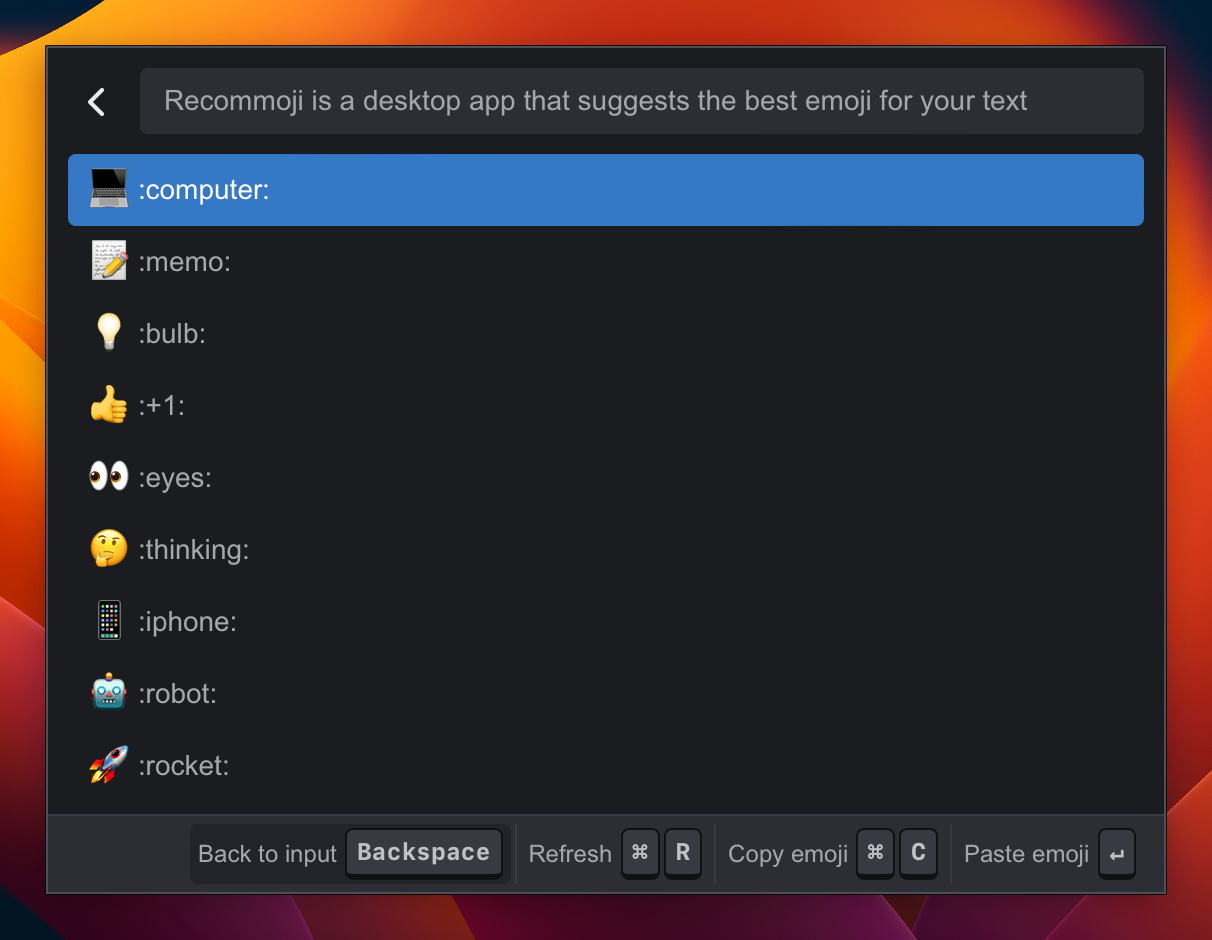
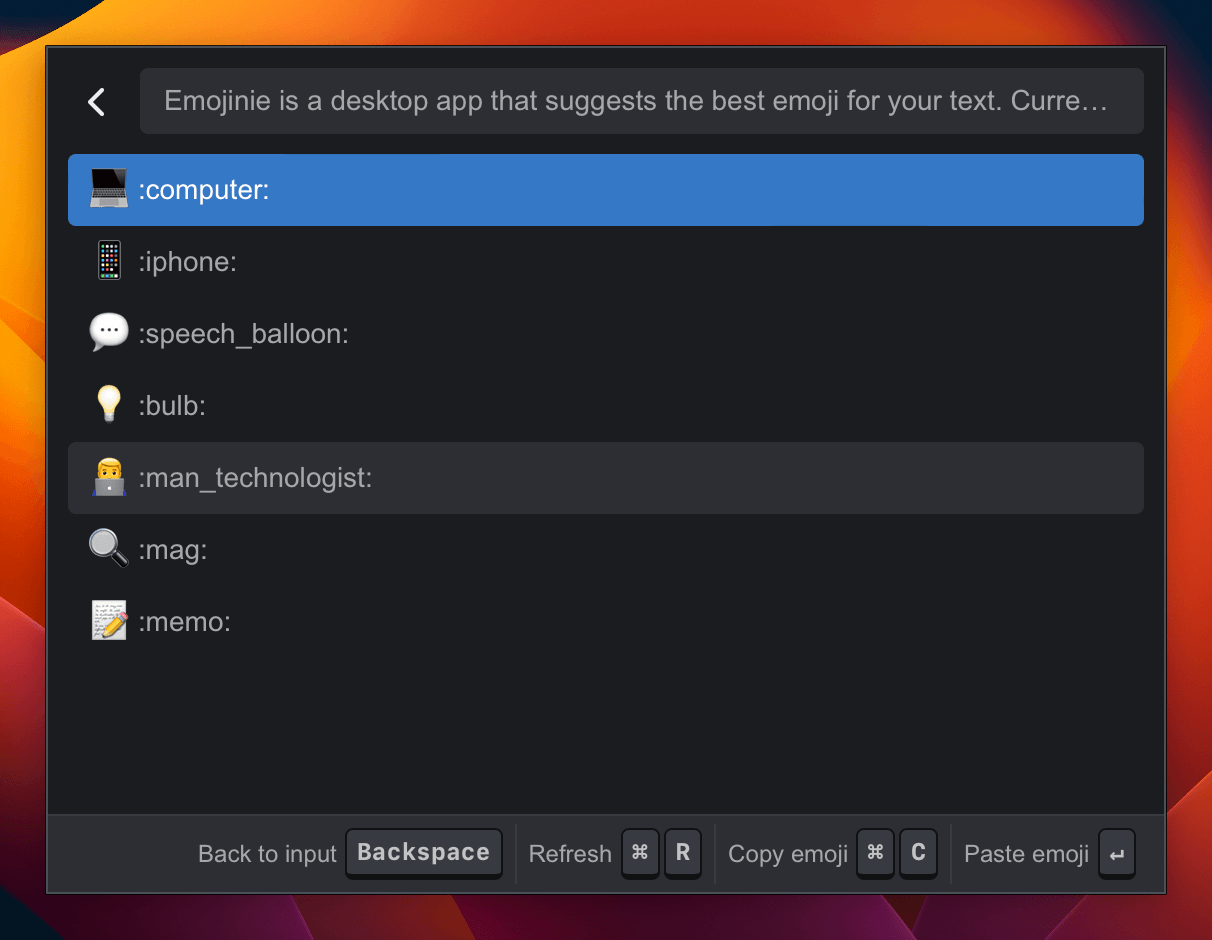
rename from recommoji to emojinie

diff --git a/src/settings/Settings.tsx b/src/settings/Settings.tsx
@@ -94,7 +94,7 @@ export function Settings() {
 
         <HotkeyInput
           label="Hotkey"
-          description="Select this field and type the hotkey to open Recommoji"
+          description="Select this field and type the hotkey to open Emojinie"
           inputRef={hotkeyInputRef}
           {...hotkeyForm.inputProps}
         />

diff --git a/src-tauri/src/main.rs b/src-tauri/src/main.rs
@@ -14,7 +14,7 @@ use window_ext::WindowExt;
 fn make_tray() -> SystemTray {
     // <- a function that creates the system tray
     let menu = SystemTrayMenu::new()
-        .add_item(CustomMenuItem::new("open".to_string(), "Open Recommoji"))
+        .add_item(CustomMenuItem::new("open".to_string(), "Open Emojinie"))
         .add_item(CustomMenuItem::new("settings", "Settings"))
         .add_item(CustomMenuItem::new("quit".to_string(), "Quit"));
     return SystemTray::new().with_menu(menu);

diff --git a/src-tauri/src/settings.rs b/src-tauri/src/settings.rs
@@ -18,7 +18,7 @@ pub fn open_settings_window(app: &AppHandle) {
                 "settings",
                 tauri::WindowUrl::App("settings.html".into()),
             )
-            .title("Recommoji Settings")
+            .title("Emojinie Settings")
             .resizable(false)
             .inner_size(440.0, 400.0)
             .build()

diff --git a/README.md b/README.md
@@ -1,10 +1,10 @@
 <p align="center">
   <img src="./app-icon.png" width="320px"/>
 </p>
-<h1 align="center">Recommoji</h1>
+<h1 align="center">Emojinie</h1>
 <h3 align="center">Find the best emoji for your text</h3>
 
-Recommoji is a desktop app that suggests the best emoji for your text.
+Emojinie is a desktop app that suggests the best emoji for your text.
 Currently only supports macOS.
 
 <p align="center">
@@ -15,7 +15,7 @@ Currently only supports macOS.
 
 ### macOS
 
-1. Go to the [Latest Release](https://github.com/kohii/recommoji/releases/latest) page and download the corresponding chip's .dmg installation package.
+1. Go to the [Latest Release](https://github.com/kohii/emojinie/releases/latest) page and download the corresponding chip's .dmg installation package.
 2. Double click the downloaded file to install it.
 3. Ready to use!
 
@@ -34,7 +34,7 @@ If you cannot find the `Open Anyway` button, follow the steps below.
 2. Run the following command.
 
 ```bash
-xattr -r -d com.apple.quarantine /Applications/Recommoji.app
+xattr -r -d com.apple.quarantine /Applications/Emojinie.app
 ```
 
 #### If you cannot open the app because it is damaged
@@ -47,15 +47,15 @@ xattr -r -d com.apple.quarantine /Applications/Recommoji.app
 2. Run the following command.
 
 ```bash
-xattr -r -d com.apple.quarantine /Applications/Recommoji.app
+xattr -r -d com.apple.quarantine /Applications/Emojinie.app
 ```
 
 #### If you cannot paste the emoji to other apps
 
 1. Open `System Settings` app and go to `Security & Privacy`.
 2. Click `Accessibility`.
-3. Click `+` button and add `Recommoji` app.
-4. Ensure that `Recommoji` is checked.
+3. Click `+` button and add `Emojinie` app.
+4. Ensure that `Emojinie` is checked.
 
 ### Windows
 
